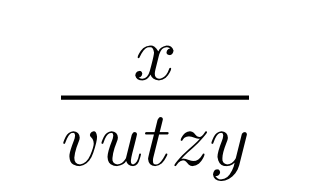
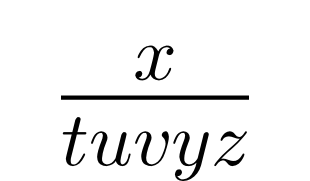
fix sorting

Changed region(s): [[0.2032, 0.6354, 0.8129, 1.0]]

diff --git a/src/cmp.rs b/src/cmp.rs
@@ -32,13 +32,13 @@ impl Ord for BasicAlgebraicExpr {
             (_, Numeric(_)) => Ordering::Greater,
             (Product(a), Product(b)) => cmp_list(a, b),
             (Product(a), b) => cmp_list(a, slice::from_ref(b)),
-            (a, Product(b)) => cmp_list(slice::from_ref(a), b).reverse(),
-            (Pow(a), Pow(b)) => a.cmp(b).reverse(),
+            (a, Product(b)) => cmp_list(slice::from_ref(a), b),
+            (Pow(a), Pow(b)) => a.cmp(b),
             (Pow(a), b) => a.cmp(&Box::new((b.clone(), 1.into()))),
             (a, Pow(b)) => (&(a.clone(), 1.into())).cmp(b),
             (Sum(a), Sum(b)) => cmp_list(a, b),
             (Sum(a), b) => cmp_list(a, slice::from_ref(b)),
-            (a, Sum(b)) => cmp_list(slice::from_ref(a), b).reverse(),
+            (a, Sum(b)) => cmp_list(slice::from_ref(a), b),
             (Factorial(a), Factorial(b)) => a.cmp(b),
             (Factorial(a), b) => {
                 if &**a == b {
@@ -54,7 +54,7 @@ impl Ord for BasicAlgebraicExpr {
                     a.cmp(&**b)
                 }
             }
-            // NOTE that arguments are compared lexicographically instead of reversed as in cmp_list
+            // N.B. arguments are compared lexicographically instead of reversed as in cmp_list
             (Function(name1, args1), Function(name2, args2)) => {
                 if name1 == name2 {
                     args1.cmp(args2)

diff --git a/src/main.rs b/src/main.rs
@@ -105,12 +105,14 @@ const PREAMBLE: &str = r#"
 
 fn main() -> Result<(), Box<dyn Error>> {
     let eq = parse_into_expression(&fs::read_to_string("./test.txt")?).unwrap();
+    dbg!(&eq);
     let str = print_expr_to_string(&eq);
     let mut world = MyWorld::new(format!("{PREAMBLE} ${str}$"))?;
 
     write_image(&world, "./out.png")?;
 
     let s = eq.simplify().unwrap();
+    dbg!(s.as_inner());
     let str = print_expr_to_string(s.as_inner());
 
     world.set_source(format!("{PREAMBLE} ${str}$"));

diff --git a/src/simplify/mod.rs b/src/simplify/mod.rs
@@ -188,6 +188,7 @@ pub(crate) fn simplify_power(base: SimpleExpr, exponent: SimpleExpr) -> ComputeR
 fn simplify_factorial(x: SimpleExpr) -> ComputeResult {
     match &x.inner {
         BasicAlgebraicExpr::Numeric(x) if let Some(x) = x.as_integer() && x <= &BigInt::from(10000) => {
+            // TODO: how might we configure this limit?
             let mut current = BigInt::one();
             let mut product = BigInt::one();
             while &current <= x {
